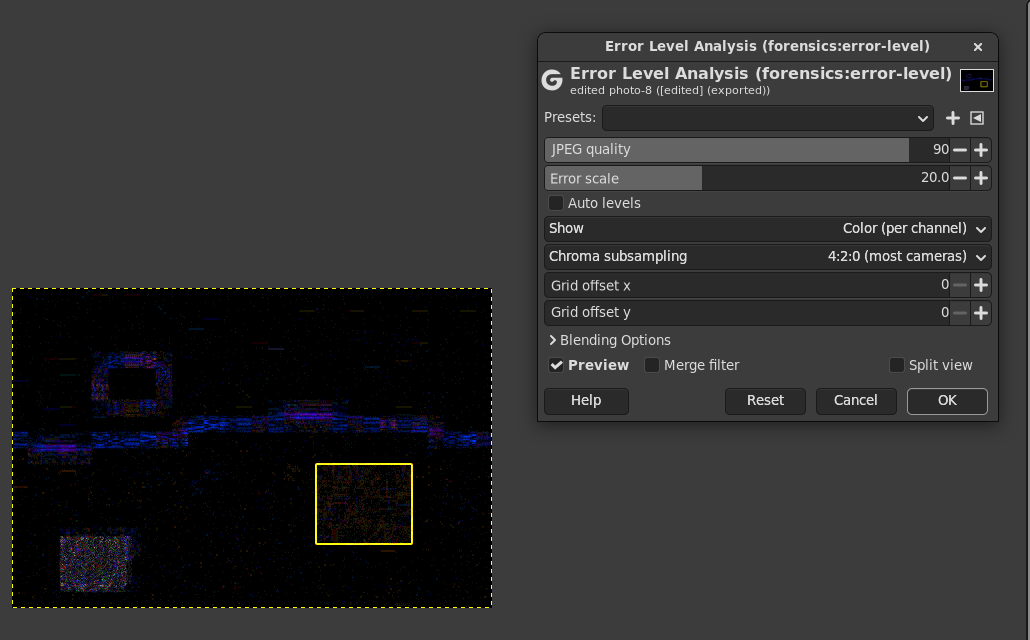
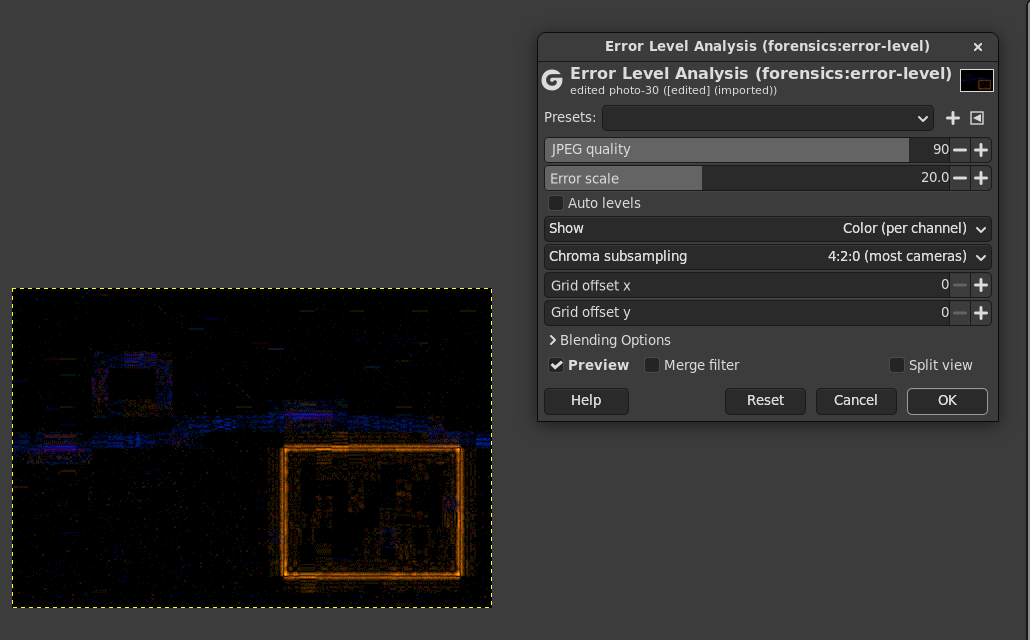
GUI tests: the twelve filters, JPEG Info and its map; new pictures
The GUI photo is now saved as a JPEG at 90 and opened, so that JPEG
Info reads it: its dialog opens, Add Double JPEG Map shows the region
pasted from a quality 60 JPEG white. The Workbench dialog puts the
analyses without settings in two columns. start.sh installs JPEG Info's
signature table too. 17 GUI checks; the pictures of the README again.

diff --git a/tests/gui/open-image.py b/tests/gui/open-image.py
@@ -5,8 +5,9 @@
 # The photo: a generated scene saved as a quality 90 JPEG with GIMP's
 # exporter and opened again (the camera's file); into it a region of
 # another scene from a quality 60 JPEG (a paste from another picture),
-# and a patch of the ground copied to another place (a clone). Written to
-# FORENSICS_GUI_OUT/edited.png too. GIMP stays open.
+# and a patch of the ground copied to another place (a clone), saved as a
+# JPEG at 90 (FORENSICS_GUI_OUT/edited.jpg) and opened: the image shown.
+# Written to FORENSICS_GUI_OUT/edited.png too. GIMP stays open.
 #
 # Copyright 2026 David
 # SPDX-License-Identifier: GPL-3.0-or-later
@@ -100,8 +101,8 @@ photo = jpeg_copy(scene(1), 90, 'camera.jpg')
 other = jpeg_copy(scene(2), 60, 'other.jpg')
 layer = photo.get_layers()[0]
 buf = layer.get_buffer()
-# the paste: 96 x 80 pixels of the other picture, on the JPEG grid
-paste = Gegl.Rectangle.new(304, 176, 96, 80)
+# the paste: 176 x 128 pixels of the other picture, on the JPEG grid
+paste = Gegl.Rectangle.new(272, 160, 176, 128)
 buf.set(paste, FMT, other.get_layers()[0].get_buffer().get(paste, 1.0, FMT,
                                                            Gegl.AbyssPolicy.NONE))
 # the clone: 64 x 48 pixels of the ground copied 150 pixels to the left
@@ -112,7 +113,27 @@ buf.flush()
 layer.update(0, 0, W, H)
 other.delete()
 layer.set_name('edited photo')
-Gimp.file_save(Gimp.RunMode.NONINTERACTIVE, photo,
+# (a copy is saved, so that the image stays the one opened from
+# camera.jpg, for JPEG Info)
+copy = photo.duplicate()
+Gimp.file_save(Gimp.RunMode.NONINTERACTIVE, copy,
                Gio.File.new_for_path(os.path.join(OUT, 'edited.png')), None)
+# the edited photo saved as a JPEG at 90 and opened again, as it would
+# reach you: the image shown (JPEG Info reads its file)
+export = photo.duplicate()
+path = os.path.join(OUT, 'edited.jpg')
+proc = Gimp.get_pdb().lookup_procedure('file-jpeg-export')
+cfg = proc.create_config()
+cfg.set_property('run-mode', Gimp.RunMode.NONINTERACTIVE)
+cfg.set_property('image', export)
+cfg.set_property('file', Gio.File.new_for_path(path))
+cfg.set_property('quality', 0.9)
+cfg.set_property('sub-sampling', 'sub-sampling-2x2')
+proc.run(cfg)
+export.delete()
+copy.delete()
+photo.delete()
+photo = Gimp.file_load(Gimp.RunMode.NONINTERACTIVE, Gio.File.new_for_path(path))
+photo.get_layers()[0].set_name('edited photo')
 photo.clean_all()
 Gimp.Display.new(photo)

diff --git a/plug-ins/forensics-workbench/forensics-workbench.py b/plug-ins/forensics-workbench/forensics-workbench.py
@@ -227,21 +227,19 @@ def show_dialog(procedure, config, image=None):
     frames = []
     for switch, settings in (('ela', ['ela-quality', 'ela-scale']),
                              ('ghost', ['ghost-quality']),
-                             ('dqmap', []),
                              ('noise', ['noise-amplitude']),
-                             ('wnoise', []), ('minmax', []), ('echo', []),
-                             ('gradient', []),
                              ('clone', ['clone-tolerance']),
-                             ('median', []), ('resampling', []), ('bitplane', []),
-                             ('sweep', ['sweep-position', 'sweep-width']),
-                             ('pca', []), ('hsv', []), ('lab', []), ('thumbnail', []),
-                             ('jpeg-suggest', [])):
-        if settings:
-            dialog.fill_box(switch + '-box', settings)
-            dialog.fill_frame(switch + '-frame', switch, False, switch + '-box')
-            frames.append(switch + '-frame')
-        else:
-            frames.append(switch)
+                             ('sweep', ['sweep-position', 'sweep-width'])):
+        dialog.fill_box(switch + '-box', settings)
+        dialog.fill_frame(switch + '-frame', switch, False, switch + '-box')
+        frames.append(switch + '-frame')
+    # the analyses without settings in two columns
+    flow = dialog.fill_flowbox('more', ['dqmap', 'wnoise', 'minmax', 'echo', 'gradient',
+                                        'median', 'resampling', 'bitplane', 'pca', 'hsv',
+                                        'lab', 'thumbnail'])
+    flow.set_min_children_per_line(2)
+    flow.set_max_children_per_line(2)
+    frames += ['more', 'jpeg-suggest']
     about = dialog.get_label('about', 'Each analysis becomes a layer of the '
                              'Forensics group with its filter, which can be '
                              'edited later. The results are indicators, not '
